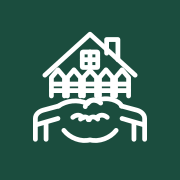
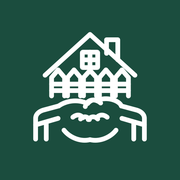
Sharpen the WhatsApp/Messenger link preview image
Production still serves the 180px apple-touch icon as the share image,
so WhatsApp upscales it and the mark looks jagged. Point crawlers at a
1200×1200 PNG rendered 2× from the vector mark, switch the Twitter card
to summary_large_image, and cache-bust the image URL so clients refetch
after deploy.

diff --git a/index.html b/index.html
@@ -23,16 +23,16 @@
     <meta property="og:title" content="Podplot" />
     <meta property="og:description" content="Podplot — sousedství v kapse. Hyperlokální síť pro občany, podniky a obecní úřady." />
     <meta property="og:url" content="https://podplot.vercel.app/" />
-    <meta property="og:image" content="https://podplot.vercel.app/og-image.png" />
-    <meta property="og:image:secure_url" content="https://podplot.vercel.app/og-image.png" />
+    <meta property="og:image" content="https://podplot.vercel.app/og-image.png?v=2" />
+    <meta property="og:image:secure_url" content="https://podplot.vercel.app/og-image.png?v=2" />
     <meta property="og:image:type" content="image/png" />
     <meta property="og:image:width" content="1200" />
     <meta property="og:image:height" content="1200" />
     <meta property="og:image:alt" content="Podplot" />
-    <meta name="twitter:card" content="summary" />
+    <meta name="twitter:card" content="summary_large_image" />
     <meta name="twitter:title" content="Podplot" />
     <meta name="twitter:description" content="Podplot — sousedství v kapse. Hyperlokální síť pro občany, podniky a obecní úřady." />
-    <meta name="twitter:image" content="https://podplot.vercel.app/og-image.png" />
+    <meta name="twitter:image" content="https://podplot.vercel.app/og-image.png?v=2" />
     <link rel="manifest" href="/manifest.webmanifest" />
     <link rel="apple-touch-icon" href="/apple-touch-icon.png" />
     <link rel="icon" type="image/svg+xml" href="/og-image.svg" />

diff --git a/scripts/render-brand-logo.py b/scripts/render-brand-logo.py
@@ -40,16 +40,26 @@ def write_colored_mark(path: Path, color: str) -> None:
     )
 
 
-def og_svg(size: int = 1200, pad: int = 96) -> str:
+def og_svg(size: int = 1200, pad: int = 120) -> str:
+    """WhatsApp/Messenger: large square card, vector mark with room around it."""
     inner = size - 2 * pad
     return f"""<?xml version="1.0" encoding="UTF-8"?>
 <svg xmlns="http://www.w3.org/2000/svg" width="{size}" height="{size}" viewBox="0 0 {size} {size}">
   <rect width="{size}" height="{size}" fill="{GREEN}"/>
-  <svg x="{pad}" y="{pad - 24}" width="{inner}" height="{inner}" viewBox="0 0 512 512">
+  <svg x="{pad}" y="{pad - 16}" width="{inner}" height="{inner}" viewBox="0 0 512 512">
     {mark_inner(WHITE)}
   </svg>
 </svg>
 """
+
+
+def downscale_png(src: Path, dest: Path, width: int, height: int) -> None:
+    from PIL import Image
+
+    im = Image.open(src).convert("RGB")
+    im = im.resize((width, height), Image.Resampling.LANCZOS)
+    dest.parent.mkdir(parents=True, exist_ok=True)
+    im.save(dest, format="PNG", optimize=True)
 
 
 def square_icon_svg(size: int, pad_ratio: float) -> str:
@@ -87,12 +97,19 @@ def main() -> None:
 
     og_path = PUBLIC / "og-image.svg"
     og_path.write_text(og_svg(), encoding="utf-8")
-    rasterize_file(rsvg, og_path, PUBLIC / "og-image.png", 1200)
+    # Render 2× then Lanczos-downscale so strokes stay smooth in WhatsApp/Messenger.
+    og_hi = PUBLIC / "og-image@2x.png"
+    rasterize_file(rsvg, og_path, og_hi, 2400, 2400)
+    downscale_png(og_hi, PUBLIC / "og-image.png", 1200, 1200)
+    og_hi.unlink(missing_ok=True)
 
     rasterize(rsvg, square_icon_svg(512, 0.08), ICONS / "icon-512.png", 512)
     rasterize(rsvg, square_icon_svg(512, 0.12), ICONS / "icon-512-maskable.png", 512)
     rasterize(rsvg, square_icon_svg(192, 0.08), ICONS / "icon-192.png", 192)
-    rasterize(rsvg, square_icon_svg(180, 0.08), PUBLIC / "apple-touch-icon.png", 180)
+    apple_hi = PUBLIC / "apple-touch-icon@3x.png"
+    rasterize(rsvg, square_icon_svg(540, 0.08), apple_hi, 540)
+    downscale_png(apple_hi, PUBLIC / "apple-touch-icon.png", 180, 180)
+    apple_hi.unlink(missing_ok=True)
 
     write_colored_mark(ASSETS / "logo-podplot.svg", WHITE)
     write_colored_mark(ASSETS / "logo-podplot-green.svg", GREEN)
